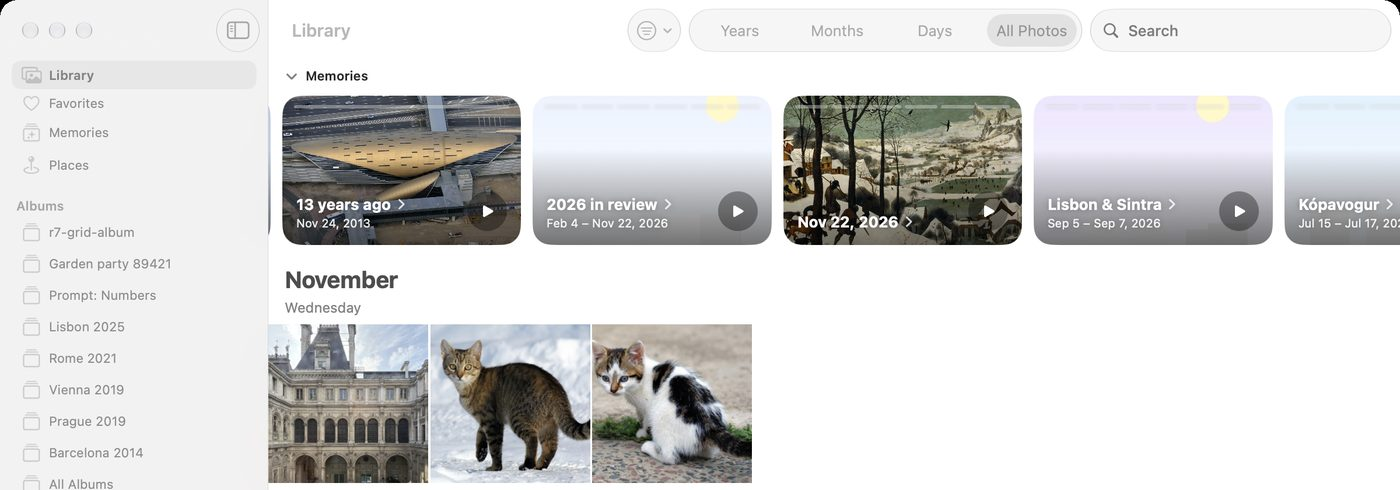
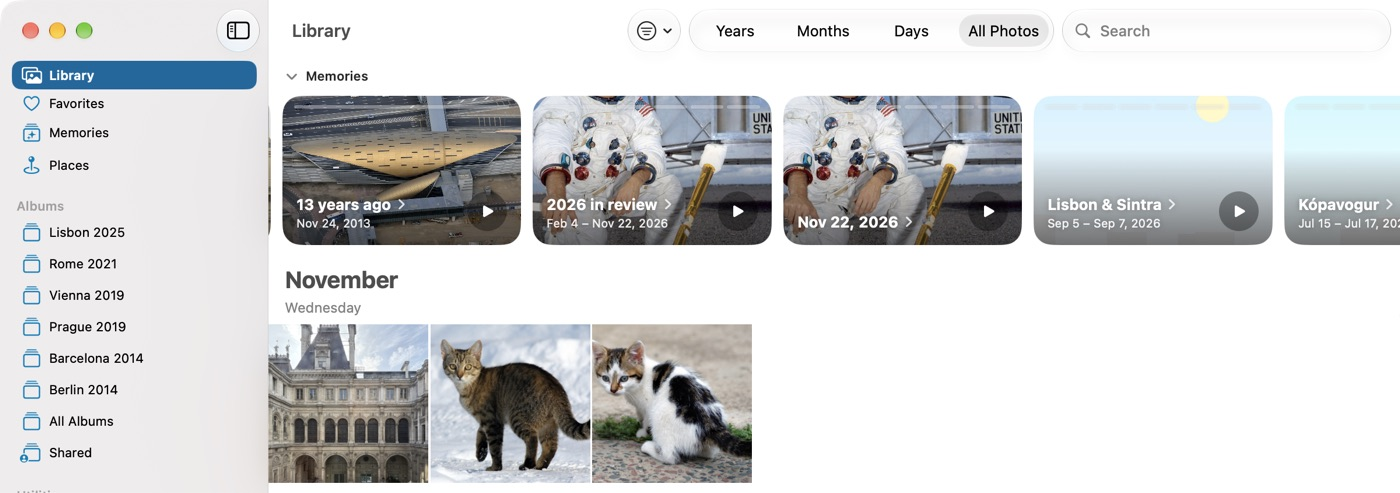
docs(readme): fresh Mac shots in light mode: Library, Places and Albums
Taken from a debug build signed in to the test server, its window captured
with screencapture; the older dark map is gone.

diff --git a/README.md b/README.md
@@ -156,10 +156,13 @@ shortcuts, Home Screen widgets, Controls and the backup Live Activity.
 ratings and flags with one key, compare two or four photos side by side, and Insights into your cameras, lenses and
 settings.
 
+<p align="center">
+  <img src="docs/screenshots/mac-library.jpg" width="760" alt="The Mac app: a sidebar with Library, Favorites, Memories, Places and the albums; the Library with Years, Months, Days and All Photos in the toolbar, the memories as cards and November's photos">
+</p>
 <table>
   <tr>
-    <td><img src="docs/screenshots/mac-library.jpg" height="200" alt="The Mac app: a sidebar with Library, Favorites, Memories, Places and albums; the Library with Years, Months, Days and All Photos at the top, the memories as cards, and November's photos"></td>
-    <td><img src="docs/screenshots/macos-map.jpg" height="200" alt="The Mac app's map with photo clusters over Europe, Africa and the Middle East"></td>
+    <td><img src="docs/screenshots/mac-map.jpg" width="420" alt="The Mac app's Places map with photo clusters over Europe, Africa, the Middle East and Asia"></td>
+    <td><img src="docs/screenshots/mac-albums.jpg" width="420" alt="The Mac app's albums: Lisbon 2025, Rome 2021, Vienna 2019, Prague 2019, Barcelona 2014 and Berlin 2014 as cards"></td>
   </tr>
 </table>
 
